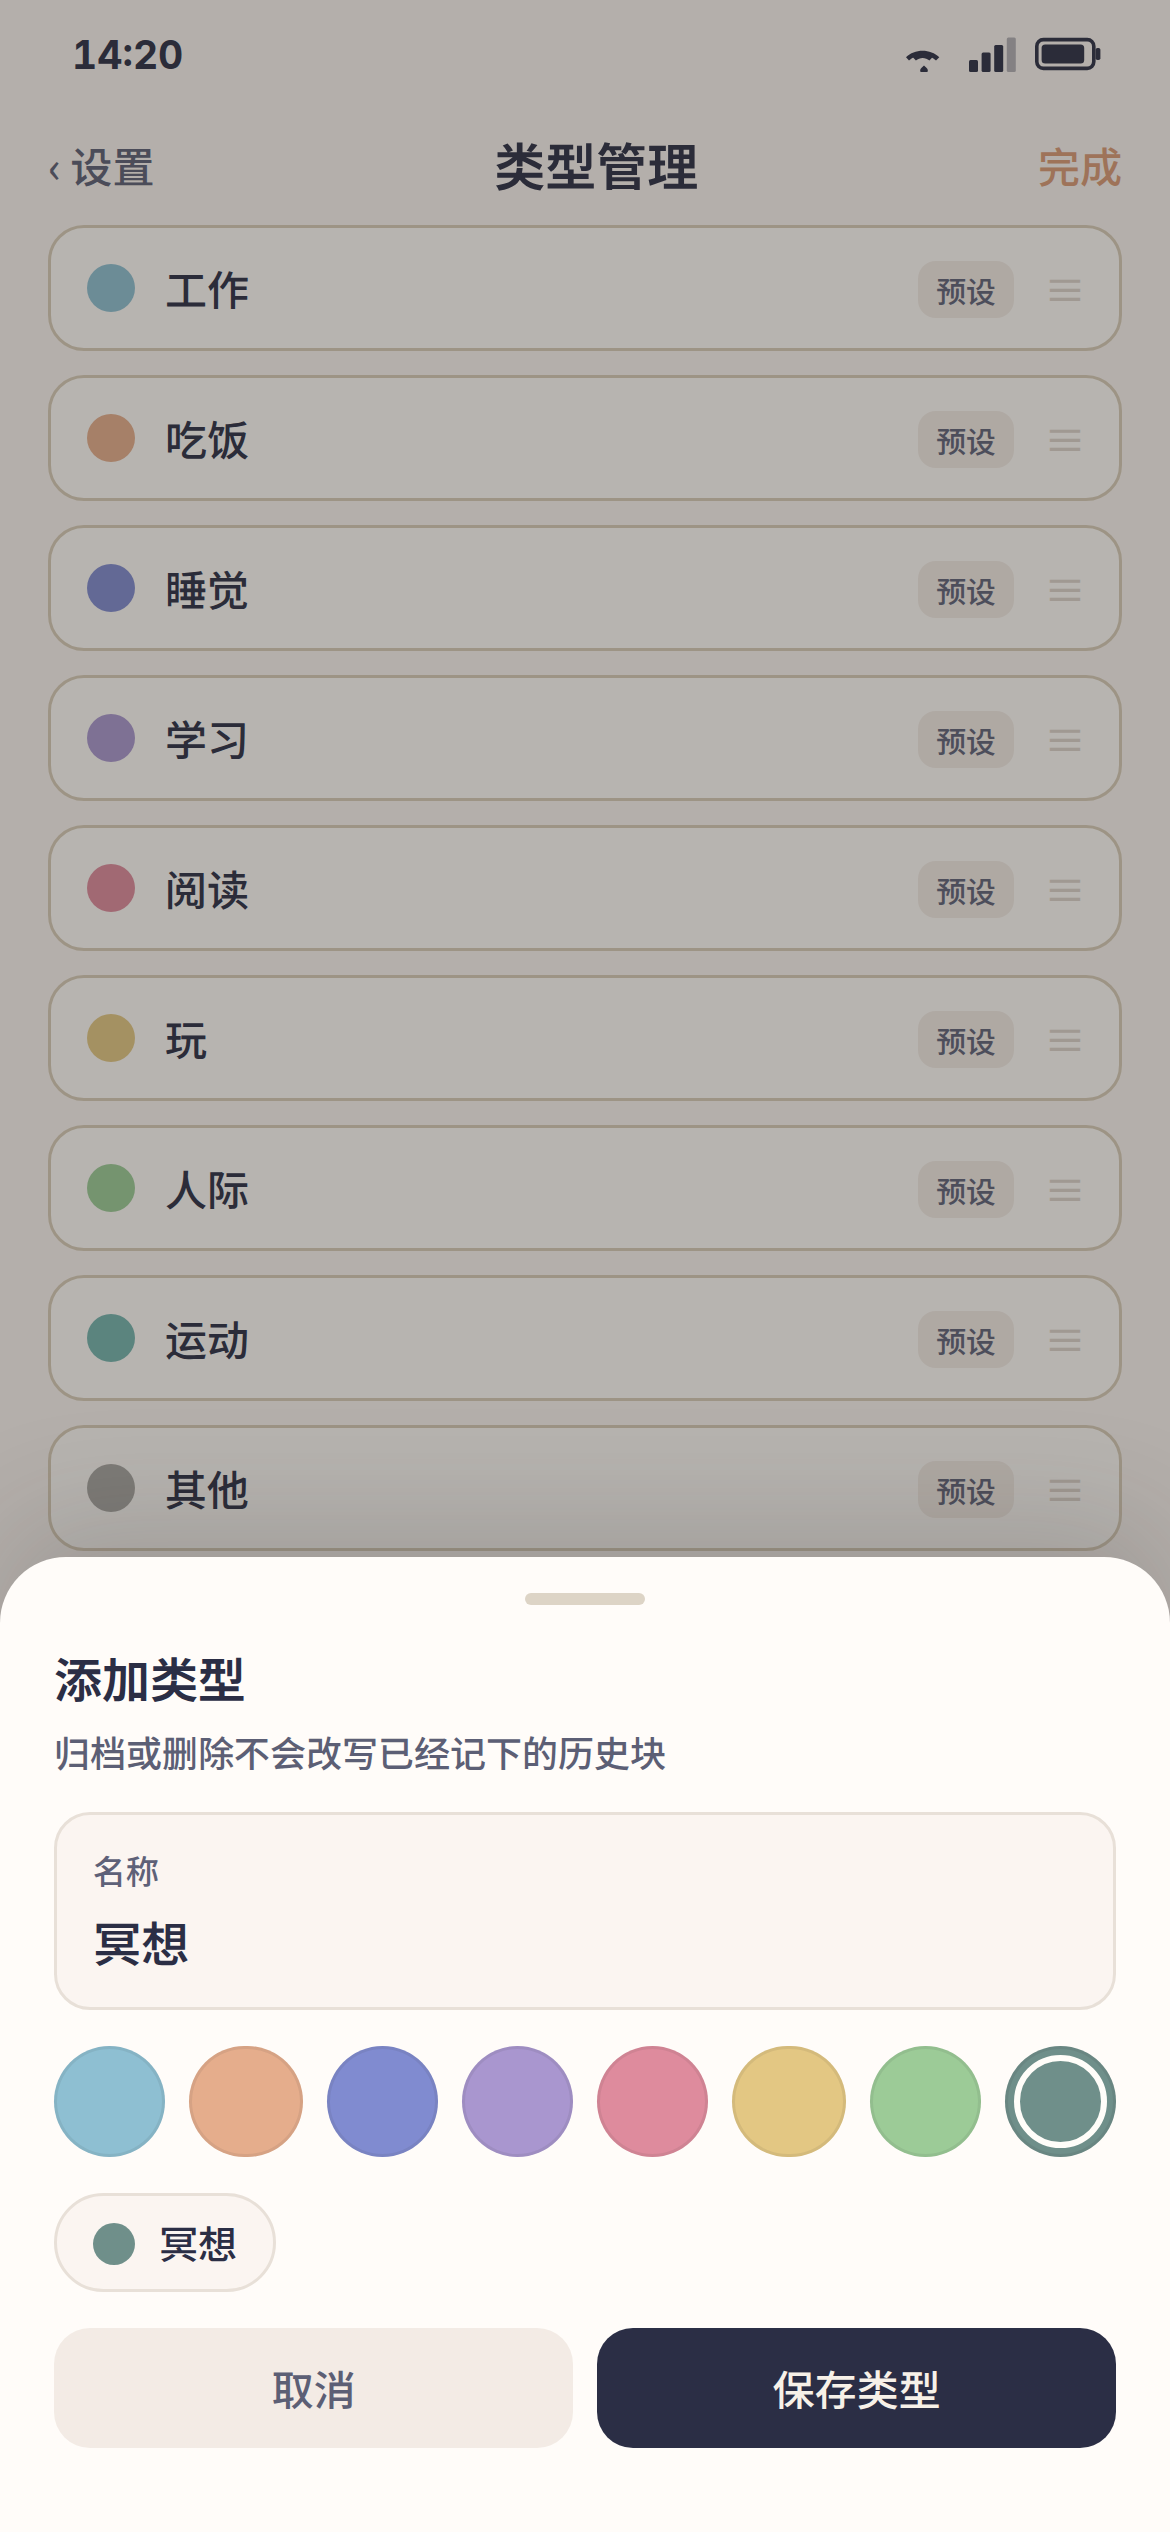
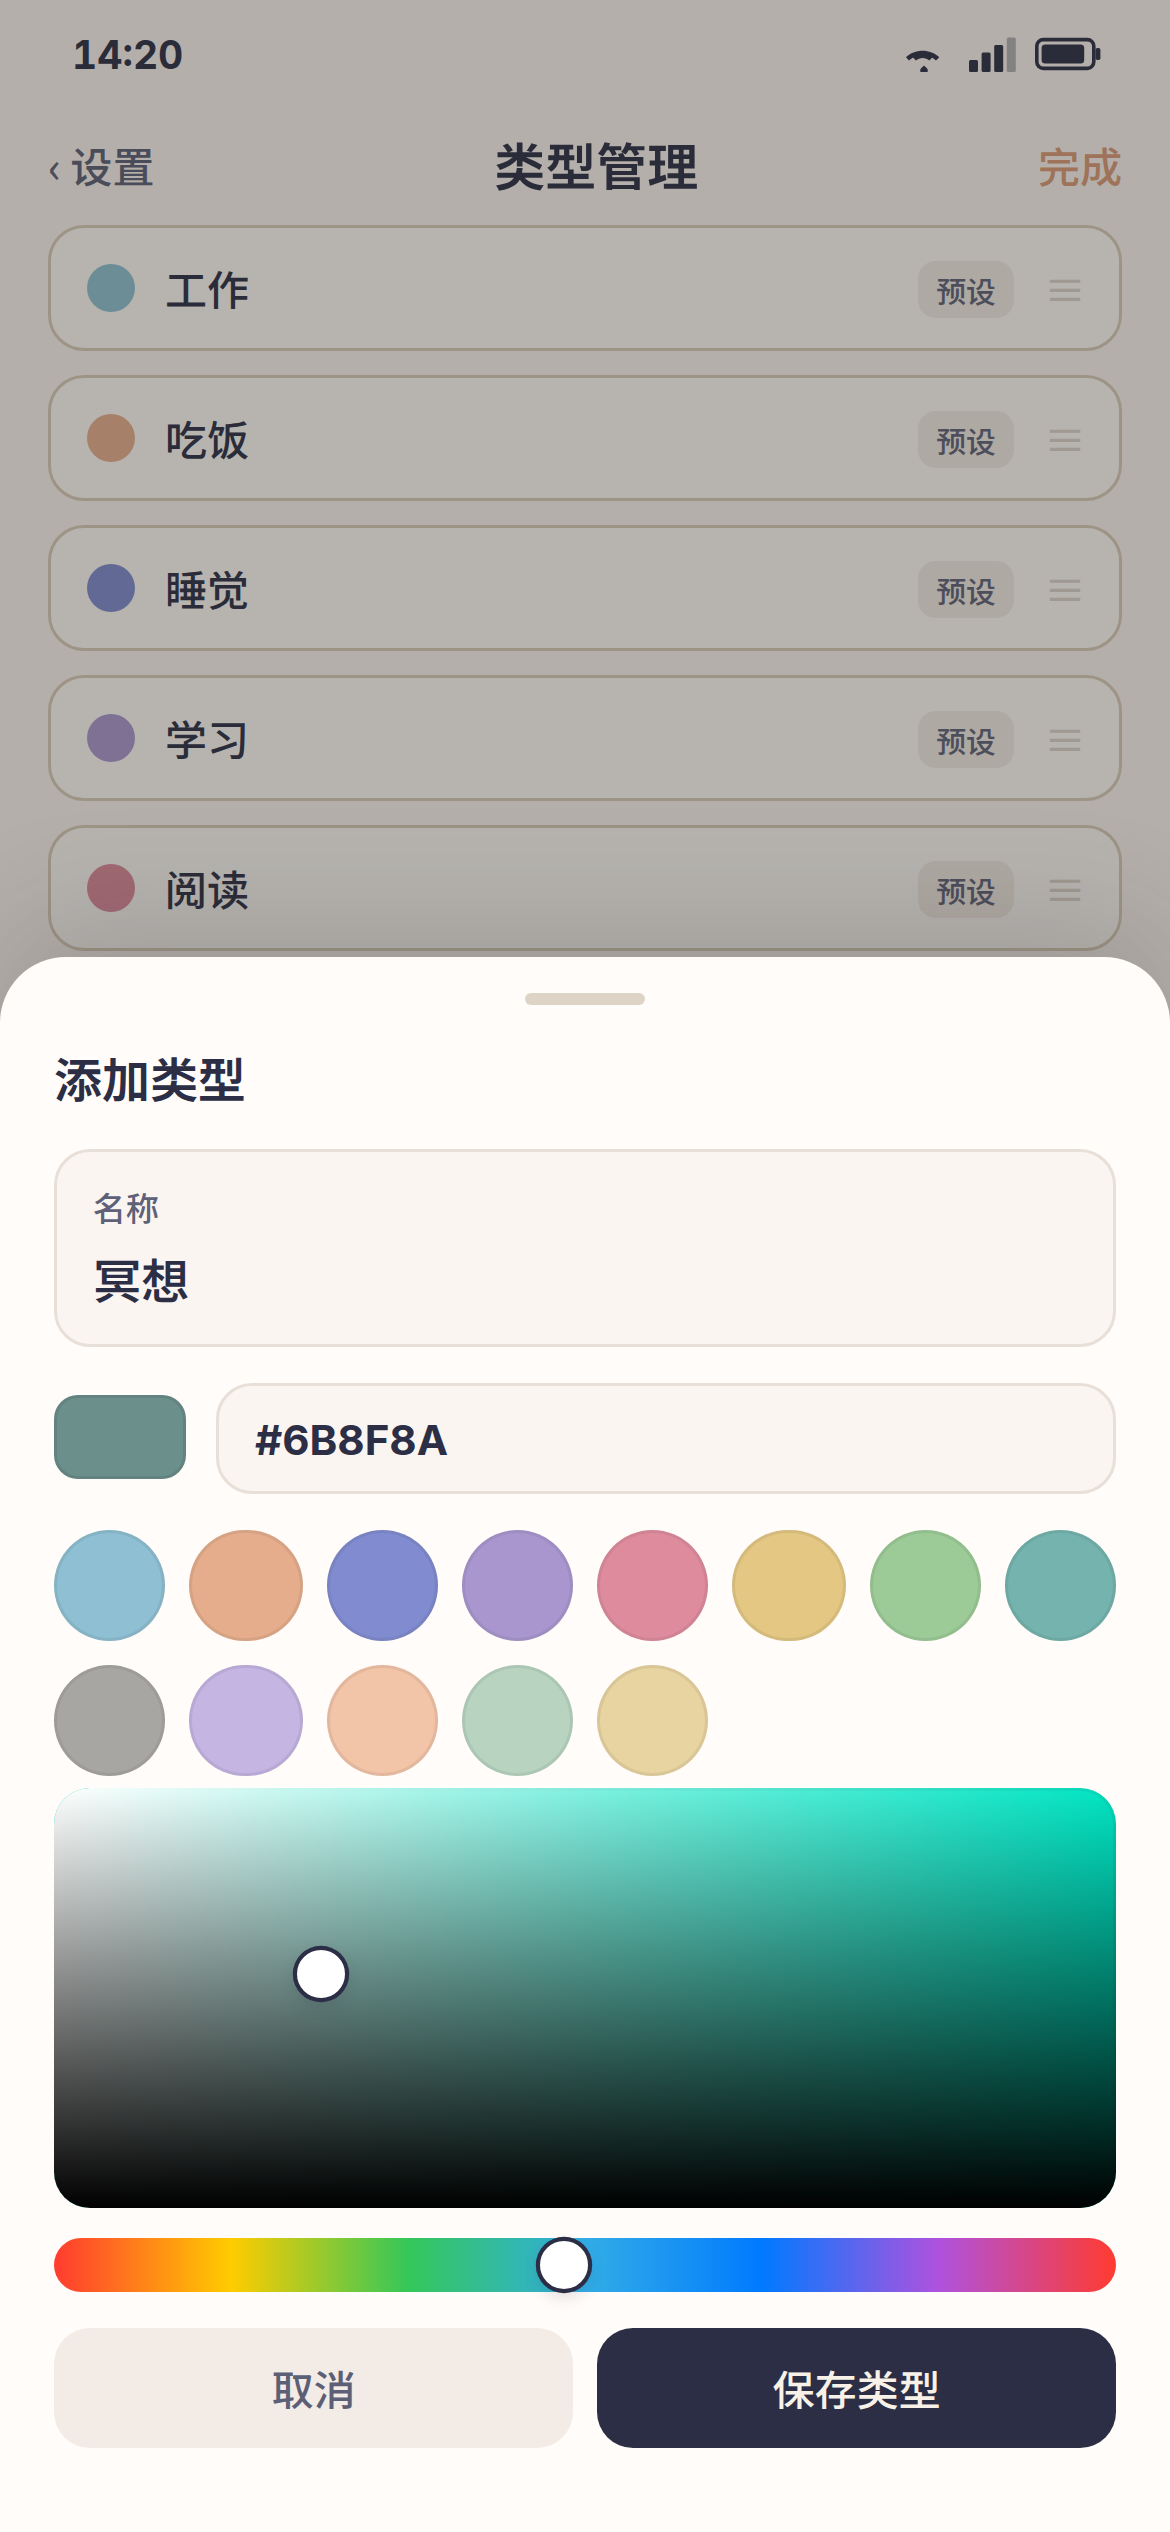
Add type-editor screenshots with the color picker open.

diff --git a/mockups/index.html b/mockups/index.html
@@ -653,8 +653,15 @@
       height: 140px;
       border-radius: 12px;
       position: relative;
+      overflow: hidden;
       box-shadow: inset 0 0 0 1px rgba(43,46,69,0.08);
+      background: #00e6c4;
     }
+    .sv-white, .sv-black {
+      position: absolute; inset: 0;
+    }
+    .sv-white { background: linear-gradient(to right, #fff, rgba(255,255,255,0)); }
+    .sv-black { background: linear-gradient(to bottom, rgba(0,0,0,0), #000); }
     .sv-thumb, .hue-thumb {
       position: absolute;
       width: 16px; height: 16px;
@@ -1083,7 +1090,9 @@
         <i class="sw" style="background:#b8d4c0"></i>
         <i class="sw" style="background:#e8d4a0"></i>
       </div>
-      <div class="sv" style="background:linear-gradient(to bottom, transparent, #000), linear-gradient(to right, #fff, #00e6c4)">
+      <div class="sv">
+        <div class="sv-white"></div>
+        <div class="sv-black"></div>
         <i class="sv-thumb" style="left:25%;top:44%"></i>
       </div>
       <div class="hue">
@@ -1146,7 +1155,9 @@
         <i class="sw" style="background:#b8d4c0"></i>
         <i class="sw" style="background:#e8d4a0"></i>
       </div>
-      <div class="sv" style="background:linear-gradient(to bottom, transparent, #000), linear-gradient(to right, #fff, #00e6c4)">
+      <div class="sv">
+        <div class="sv-white"></div>
+        <div class="sv-black"></div>
         <i class="sv-thumb" style="left:25%;top:44%"></i>
       </div>
       <div class="hue">
